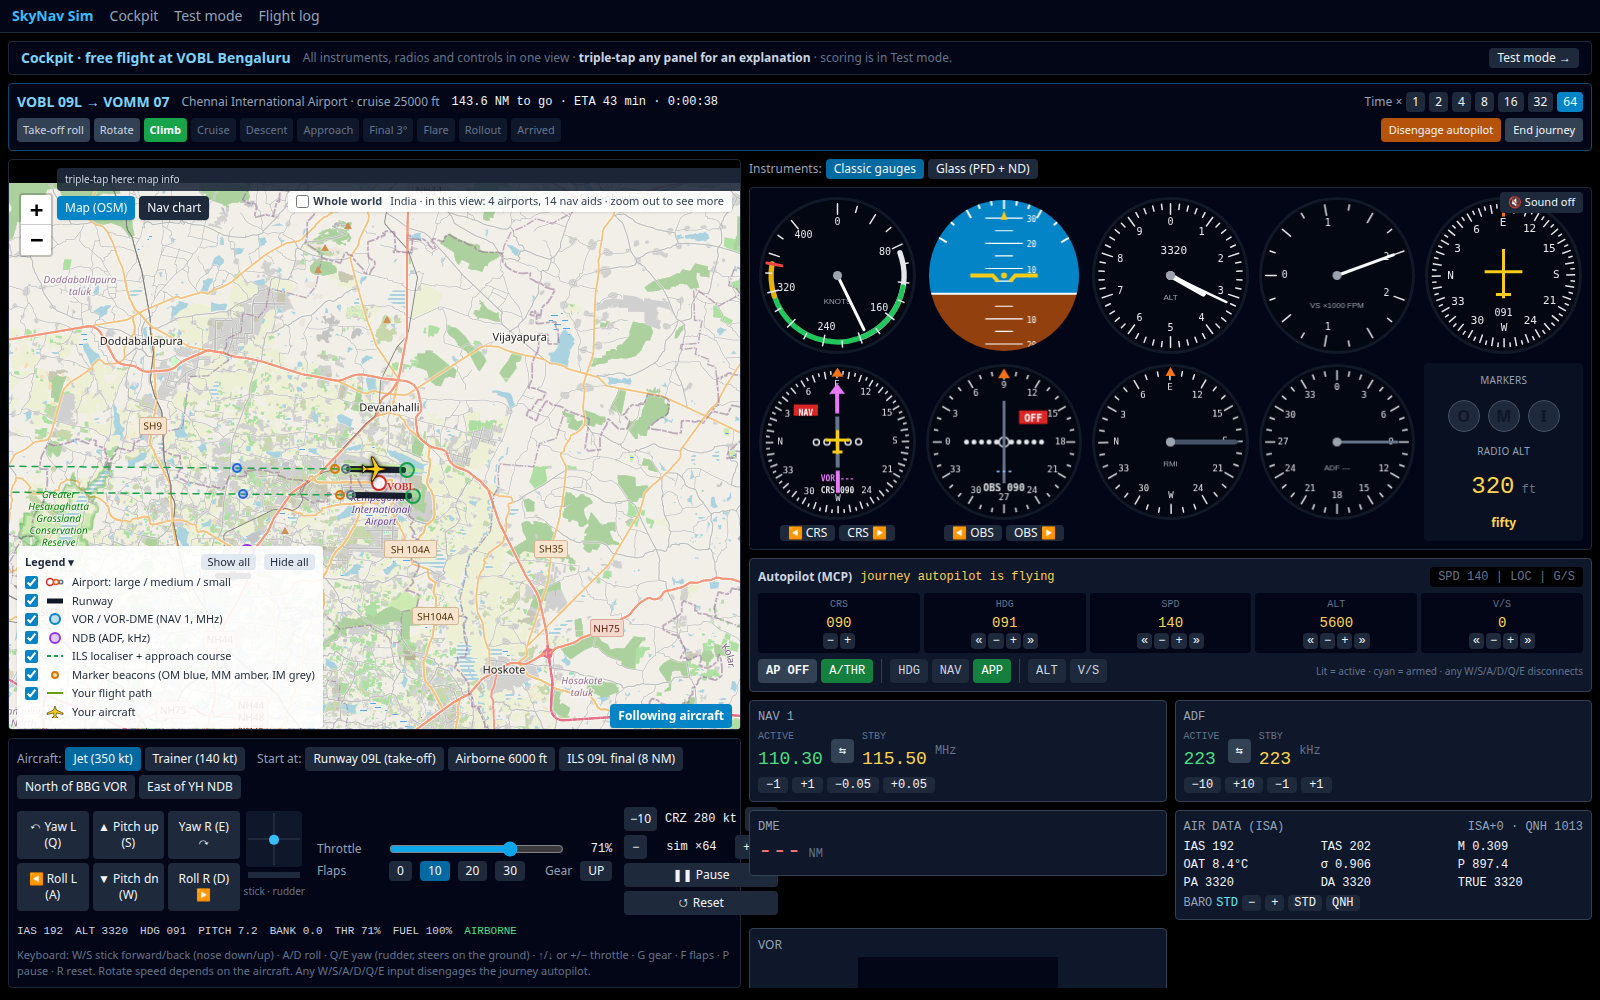
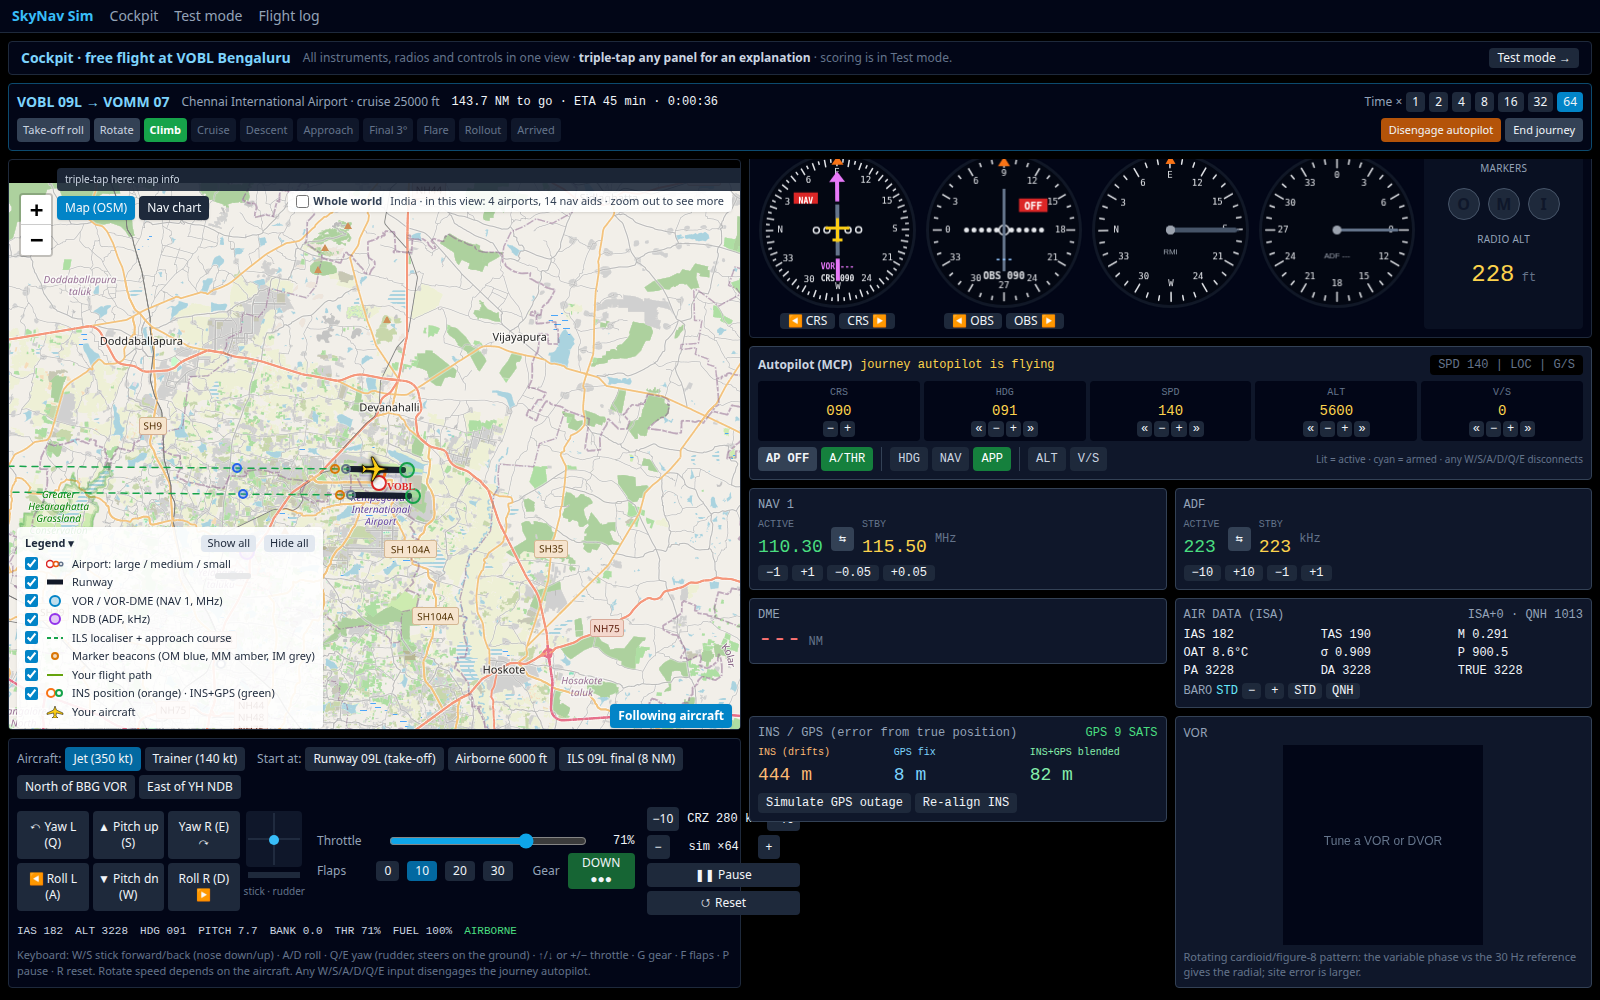
feat(cockpit): ins/gps/blend display and nav source panel

Changed region(s): [[0.1875, 0.155, 1.0, 0.992], [0.0, 0.527, 0.2188, 0.713]]

diff --git a/app/components/views/OsmMap.vue b/app/components/views/OsmMap.vue
@@ -5,7 +5,7 @@ import type * as Leaflet from 'leaflet'
 import { toLatLon } from '../../../shared/utils/geo'
 import { NM_TO_M, deg2rad } from '../../../shared/utils/units'
 import type { AirportRow, RunwayRow, StationRow } from '../../composables/useNavData'
-import type { World } from '../../sim/engine'
+import { navPositions, type World } from '../../sim/engine'
 
 const props = defineProps<{ world: World; trail: { x: number; y: number }[] }>()
 const el = ref<HTMLDivElement | null>(null)
@@ -14,8 +14,10 @@ let L: typeof Leaflet | null = null
 const map = shallowRef<Leaflet.Map | null>(null)
 let aircraft: Leaflet.Marker | null = null
 let trailLine: Leaflet.Polyline | null = null
-type LayerKey = 'airports' | 'runways' | 'ils' | 'vor' | 'ndb' | 'markers' | 'trail'
-const LAYER_KEYS: LayerKey[] = ['airports', 'runways', 'ils', 'vor', 'ndb', 'markers', 'trail']
+let insMarker: Leaflet.CircleMarker | null = null
+let blendMarker: Leaflet.CircleMarker | null = null
+type LayerKey = 'airports' | 'runways' | 'ils' | 'vor' | 'ndb' | 'markers' | 'trail' | 'insgps'
+const LAYER_KEYS: LayerKey[] = ['airports', 'runways', 'ils', 'vor', 'ndb', 'markers', 'trail', 'insgps']
 const groups: Partial<Record<LayerKey, Leaflet.LayerGroup>> = {}
 const visible = ref<Record<LayerKey, boolean>>(loadVisibility())
 
@@ -165,6 +167,9 @@ function update(force = false): void {
   const pos = ll(ac.x, ac.y)
   aircraft.setLatLng(pos)
   aircraft.setIcon(planeIcon(ac.hdgDeg))
+  const np = navPositions(props.world)
+  insMarker?.setLatLng(ll(np.ins.x, np.ins.y))
+  blendMarker?.setLatLng(ll(np.blend.x, np.blend.y))
   trailLine?.setLatLngs([...props.trail.map(p => ll(p.x, p.y)), pos])
   if (follow.value) map.value.panTo(pos, { animate: false })
 }
@@ -178,6 +183,9 @@ onMounted(async () => {
     maxZoom: 18,
     attribution: '© <a href="https://www.openstreetmap.org/copyright">OpenStreetMap</a> contributors · Nav data: <a href="https://ourairports.com/data/">OurAirports</a>',
   }).addTo(map.value)
+  groups.insgps = L.layerGroup()
+  insMarker = L.circleMarker(ll(ac.x, ac.y), { radius: 6, color: '#f97316', weight: 3, fill: false }).bindTooltip('INS position (drifting)').addTo(groups.insgps)
+  blendMarker = L.circleMarker(ll(ac.x, ac.y), { radius: 4, color: '#16a34a', weight: 3, fill: false }).bindTooltip('INS + GPS blended position').addTo(groups.insgps)
   groups.trail = L.layerGroup()
   trailLine = L.polyline([], { color: '#65a30d', weight: 2 }).addTo(groups.trail)
   aircraft = L.marker(ll(ac.x, ac.y), { icon: planeIcon(ac.hdgDeg), zIndexOffset: 1000 }).addTo(map.value)
@@ -201,6 +209,7 @@ const LEGEND: { key: LayerKey | null; sym: string; color: string; label: string 
   { key: 'ils', sym: 'dash', color: '#16a34a', label: 'ILS localiser + approach course' },
   { key: 'markers', sym: 'dot', color: COLORS.MARKER_MM!, label: 'Marker beacons (OM blue, MM amber, IM grey)' },
   { key: 'trail', sym: 'line', color: '#65a30d', label: 'Your flight path' },
+  { key: 'insgps', sym: 'ring', color: '#f97316', label: 'INS position (orange) · INS+GPS (green)' },
   { key: null, sym: 'plane', color: '#facc15', label: 'Your aircraft' },
 ]
 watch(() => props.world, () => update())
@@ -228,6 +237,7 @@ watch(follow, f => f && update(true))
             <circle v-else-if="l.sym === 'dot'" cx="9" cy="6" r="3" :stroke="l.color" stroke-width="2" :fill="l.color" fill-opacity="0.25" />
             <line v-else-if="l.sym === 'dash'" x1="1" y1="6" x2="17" y2="6" :stroke="l.color" stroke-width="2" stroke-dasharray="4 3" />
             <line v-else-if="l.sym === 'bar'" x1="1" y1="6" x2="17" y2="6" :stroke="l.color" stroke-width="5" />
+            <g v-else-if="l.sym === 'ring'"><circle cx="5" cy="6" r="4" stroke="#f97316" stroke-width="2" fill="none" /><circle cx="13" cy="6" r="3" stroke="#16a34a" stroke-width="2" fill="none" /></g>
             <line v-else-if="l.sym === 'line'" x1="1" y1="6" x2="17" y2="6" :stroke="l.color" stroke-width="2" />
             <path v-else d="M9,0 L10.4,4 L17,7 L17,8.5 L10.4,7 L10,10 L12,12 L6,12 L8,10 L7.6,7 L1,8.5 L1,7 L7.6,4 Z" :fill="l.color" stroke="#000" stroke-width="0.5" />
           </svg>

diff --git a/app/sim/engine.ts b/app/sim/engine.ts
@@ -1,4 +1,5 @@
-import { AIRPORT_ELEV_FT } from '../../shared/utils/units'
+import { AIRPORT_ELEV_FT, NM_TO_M } from '../../shared/utils/units'
+import { mulberry32 } from '../../shared/utils/random'
 import { REF, distNm, toLatLon, toLocal, type LatLon } from '../../shared/utils/geo'
 import type { AirportInfo, AircraftState, Atmosphere, Controls, FlightResult, NavOutputs, NavStation, Objective, RunwayInfo, Wind } from '../../shared/types'
 import { evaluateObjective, type ObjProgress } from './objectives'
@@ -7,6 +8,9 @@ import { JET, type AircraftProfile } from './aircraft'
 import { judgeTouchdown, type Touchdown } from './landing'
 import { apStep, type ApState } from '../systems/autopilot'
 import { tunedLocaliser, ilsReceive } from '../nav/ils'
+import { insInit, insStep, type InsState } from '../nav/ins'
+import { gpsFix } from '../nav/gps'
+import { blendStep } from '../nav/blend'
 import { DEFAULT_STATE, step } from './flightModel'
 import { vorReceive } from '../nav/vor'
 import { dmeReceive } from '../nav/dme'
@@ -44,6 +48,39 @@ export interface World {
   lastTouchdown: Touchdown | null
   /** Mode autopilot (MCP). The journey autopilot, when active, takes precedence. */
   ap: ApState | null
+  /** INS error state, GPS measurement error and the blended estimate of the INS error (metres). */
+  insgps: InsGps
+}
+
+export interface InsGps { ins: InsState; est: [number, number]; gps: [number, number] | null; outage: boolean; seed: number; nextFixMs: number }
+
+/** Sensor quality chosen so the drift is visible within minutes (≈ 1 km after 10 min). */
+export function newInsGps(seed = 42): InsGps {
+  return { ins: insInit({ bias: [0.004, -0.003], sigma: 0.002 }), est: [0, 0], gps: null, outage: false, seed, nextFixMs: 1000 }
+}
+
+/** True, INS, GPS and blended positions in the local frame (NM). */
+export function navPositions(w: World): { truth: { x: number; y: number }; ins: { x: number; y: number }; gps: { x: number; y: number } | null; blend: { x: number; y: number } } {
+  const g = w.insgps
+  const at = (ex: number, ey: number) => ({ x: w.ac.x + ex / NM_TO_M, y: w.ac.y + ey / NM_TO_M })
+  return {
+    truth: { x: w.ac.x, y: w.ac.y },
+    ins: at(g.ins.errX, g.ins.errY),
+    gps: g.gps ? at(g.gps[0], g.gps[1]) : null,
+    blend: at(g.ins.errX - g.est[0], g.ins.errY - g.est[1]),
+  }
+}
+
+function stepInsGps(g: InsGps, simMs: number, dt: number): InsGps {
+  const rng = mulberry32(g.seed)
+  const ins = insStep(g.ins, dt, rng)
+  let { est, gps, nextFixMs } = g
+  if (simMs >= nextFixMs) {
+    gps = gpsFix(rng, { outage: g.outage })
+    est = blendStep(est, [ins.errX, ins.errY], gps)
+    nextFixMs = simMs + 1000
+  }
+  return { ...g, ins, est, gps, nextFixMs, seed: Math.floor(rng() * 4294967296) }
 }
 
 export const DEFAULT_RADIOS: Radios = { nav1MHz: 113.5, obsDeg: 90, adfKHz: 350, baroHpa: 1013.25 }
@@ -71,6 +108,7 @@ export function createWorld(init: Partial<Omit<World, 'ac' | 'radios'>> & { ac?:
     profile: init.profile ?? JET,
     lastTouchdown: init.lastTouchdown ?? null,
     ap: init.ap ?? null,
+    insgps: init.insgps ?? newInsGps(),
   }
 }
 
@@ -106,7 +144,7 @@ export function simStep(w: World, c: Controls, dt: number): World {
     markers: markersReceive(w.stations, ac, groundElevFt),
     raFt: radioAltFt(ac, groundElevFt),
   }
-  let next: World = { ...w, ac, nav, auto, ap, groundElevFt, lastControls: controls, simMs: w.simMs + dt * 1000 }
+  let next: World = { ...w, ac, nav, auto, ap, insgps: stepInsGps(w.insgps, w.simMs + dt * 1000, dt), groundElevFt, lastControls: controls, simMs: w.simMs + dt * 1000 }
   if (!w.ac.onGround && ac.onGround) {
     const td = judgeTouchdown(ac0, ac, w.runways)
     next = { ...next, lastTouchdown: td }

diff --git a/app/stores/sim.ts b/app/stores/sim.ts
@@ -1,6 +1,6 @@
 import { defineStore } from 'pinia'
 import { shallowRef, ref } from 'vue'
-import { REBASE_NM, createWorld, groundElevation, rebaseWorld, simStep, type Radios, type World } from '../sim/engine'
+import { REBASE_NM, newInsGps, createWorld, groundElevation, rebaseWorld, simStep, type Radios, type World } from '../sim/engine'
 import { REF, toLatLon, type LatLon } from '../../shared/utils/geo'
 import { airportsToLocal, runwaysToLocal, stationsToLocal, type NavDataRaw } from '../composables/useNavData'
 import { keysToControls, manualInput } from '../sim/input'
@@ -177,6 +177,15 @@ export const useSimStore = defineStore('sim', () => {
     if (p.engaged) autoMessage.value = ''
   }
 
+  function setGpsOutage(on: boolean): void {
+    world.value = { ...world.value, insgps: { ...world.value.insgps, outage: on, gps: on ? null : world.value.insgps.gps } }
+  }
+
+  /** Re-aligns the INS: errors back to zero (as after a ground alignment). */
+  function realignIns(): void {
+    world.value = { ...world.value, insgps: newInsGps(world.value.insgps.seed) }
+  }
+
   function engageAuto(): void {
     if (!world.value.journey) return
     const ac = world.value.ac
@@ -195,5 +204,5 @@ export const useSimStore = defineStore('sim', () => {
     autoMessage.value = ''
   }
 
-  return { world, paused, timeScale, autoMessage, keys, trail, navCenter, setNavData, setProfile, stepTimeScale, changeSpeed, setAp, startJourney, engageAuto, disengageAuto, endJourney, load, reset, tick, toggleGear, cycleFlaps, setRadio, setThrottle, setFlaps, holdKey, applyPreset }
+  return { world, paused, timeScale, autoMessage, keys, trail, navCenter, setNavData, setProfile, stepTimeScale, changeSpeed, setAp, setGpsOutage, realignIns, startJourney, engageAuto, disengageAuto, endJourney, load, reset, tick, toggleGear, cycleFlaps, setRadio, setThrottle, setFlaps, holdKey, applyPreset }
 })

diff --git a/app/components/views/InsGpsPanel.vue b/app/components/views/InsGpsPanel.vue
@@ -1,0 +1,29 @@
+<script setup lang="ts">
+import { computed } from 'vue'
+import { useSimStore } from '../../stores/sim'
+
+const store = useSimStore()
+const g = computed(() => store.world.insgps)
+const insErr = computed(() => Math.hypot(g.value.ins.errX, g.value.ins.errY))
+const gpsErr = computed(() => (g.value.gps ? Math.hypot(g.value.gps[0], g.value.gps[1]) : null))
+const blendErr = computed(() => Math.hypot(g.value.ins.errX - g.value.est[0], g.value.ins.errY - g.value.est[1]))
+const fmt = (m: number) => (m >= 1000 ? `${(m / 1000).toFixed(2)} km` : `${m.toFixed(0)} m`)
+</script>
+
+<template>
+  <div class="rounded border border-slate-700 bg-slate-900 p-2 font-mono text-xs">
+    <div class="mb-1 flex items-center justify-between text-slate-400">
+      <span>INS / GPS (error from true position)</span>
+      <span :class="g.outage ? 'text-red-400' : 'text-green-400'">{{ g.outage ? 'GPS 0 SATS' : 'GPS 9 SATS' }}</span>
+    </div>
+    <div class="grid grid-cols-3 gap-2">
+      <div><div class="text-[10px] text-orange-300">INS (drifts)</div><div class="text-lg text-orange-300">{{ fmt(insErr) }}</div></div>
+      <div><div class="text-[10px] text-sky-300">GPS fix</div><div class="text-lg text-sky-300">{{ gpsErr === null ? '---' : fmt(gpsErr) }}</div></div>
+      <div><div class="text-[10px] text-green-300">INS+GPS blended</div><div class="text-lg text-green-300">{{ fmt(blendErr) }}</div></div>
+    </div>
+    <div class="mt-1 flex gap-1">
+      <button class="rounded px-2 py-0.5" :class="g.outage ? 'bg-red-800' : 'bg-slate-800'" @click="store.setGpsOutage(!g.outage)">{{ g.outage ? 'Restore GPS' : 'Simulate GPS outage' }}</button>
+      <button class="rounded bg-slate-800 px-2 py-0.5" @click="store.realignIns()">Re-align INS</button>
+    </div>
+  </div>
+</template>

diff --git a/app/components/views/explanations.ts b/app/components/views/explanations.ts
@@ -2,6 +2,13 @@
 export interface Explanation { title: string; what: string; read: string[]; how: string; controls?: string }
 
 export const EXPLANATIONS: Record<string, Explanation> = {
+  insgps: {
+    title: 'INS and GPS',
+    what: 'Two ways the aircraft knows where it is without ground stations: the inertial navigation system (INS) and satellite navigation (GPS), and their combination.',
+    read: ['INS (orange, also an orange ring on the map): error from the true position. It grows over time.', 'GPS fix (blue): error of the latest fix (about 5 m), once per second. "0 SATS" = no GPS.', 'INS+GPS blended (green ring on the map): what modern aircraft actually use; stays close to the truth while GPS works.'],
+    how: 'An INS measures acceleration (accelerometers) and rotation (gyros) and integrates twice to get position. A tiny sensor bias integrated twice grows with time², so the INS slowly drifts. GPS is accurate but can be lost (jamming, outages). The blend (a simplified Kalman-style filter) uses GPS to estimate and remove the INS error; during a GPS outage it keeps the last estimate and the blended position starts drifting with the INS.',
+    controls: 'Simulate GPS outage / Restore GPS · Re-align INS (sets the INS error back to zero, as after an alignment on the ground). Use sim speed × to see the drift faster.',
+  },
   pfd: {
     title: 'PFD (primary flight display)',
     what: 'The glass-cockpit replacement for the six classic gauges: attitude, speed, altitude, vertical speed and heading on one screen.',

diff --git a/app/components/views/CockpitPanel.vue b/app/components/views/CockpitPanel.vue
@@ -21,6 +21,7 @@ import InfoTap from './InfoTap.vue'
 import HSI from '../instruments/HSI.vue'
 import MarkerRaPanel from '../instruments/MarkerRaPanel.vue'
 import MCP from '../instruments/MCP.vue'
+import InsGpsPanel from './InsGpsPanel.vue'
 import PFD from '../instruments/PFD.vue'
 import ND from '../instruments/ND.vue'
 import { hsiInput } from '../instruments/hsiMath'
@@ -93,6 +94,7 @@ const audio = useAudio(toRef(() => store.world.nav.markers), toRef(() => store.w
           <InfoTap id="adfRadio"><NavRadio label="ADF" :active="store.world.radios.adfKHz" :min="190" :max="1750" :fine="1" :coarse="10" :decimals="0" unit="kHz" @tune="store.setRadio({ adfKHz: $event })" /></InfoTap>
           <InfoTap id="dme"><DmeReadout :dme="store.world.nav.dme1" :gs-kt="store.world.ac.gsKt" /></InfoTap>
           <InfoTap id="airData"><AirDataPanel :ac="store.world.ac" :atmo="store.world.atmo" :baro-hpa="store.world.radios.baroHpa" @baro="store.setRadio({ baroHpa: $event })" /></InfoTap>
+          <InfoTap id="insgps"><InsGpsPanel /></InfoTap>
           <InfoTap id="vor"><VorDiagram :world="store.world" /></InfoTap>
         </div>
       </ClientOnly>

diff --git a/tests/unit/engine.test.ts b/tests/unit/engine.test.ts
@@ -113,3 +113,16 @@ describe('engine touchdown', async () => {
     expect(e.lastTouchdown?.result).toBe('CRASHED')
   })
 })
+
+describe('engine INS/GPS', async () => {
+  const { navPositions } = await import('../../app/sim/engine')
+  const { air } = await import('./helpers/fixtures')
+  it('E10 after 5 min the INS has drifted but the blended position stays close', () => {
+    const e = run(createWorld({ ac: air({ hdgDeg: 90 }) }), { roll: 0, pitch: 0, throttle: 120 / 350 }, 300, 0.1)
+    const p = navPositions(e)
+    const insM = Math.hypot(p.ins.x - p.truth.x, p.ins.y - p.truth.y) * 1852
+    const blendM = Math.hypot(p.blend.x - p.truth.x, p.blend.y - p.truth.y) * 1852
+    expect(insM).toBeGreaterThan(100)
+    expect(blendM).toBeLessThan(30)
+  })
+})

diff --git a/docs/agent/PROGRESS.md b/docs/agent/PROGRESS.md
@@ -42,7 +42,7 @@ Pick the first `TODO` whose dependencies are all `DONE`. A task without listed d
 | P3 | P3-CHK | Checkpoint: coupled ILS on the glass cockpit | P2, P3 | DONE |
 | P4 | W5-T28 | INS model (drift) | P3-CHK | DONE |
 | P4 | W5-T29 | GPS + INS/GPS blend | T28 | DONE |
-| P4 | W5-T31 | INS/GPS/blended positions on the map, nav source selector | T29 | TODO |
+| P4 | W5-T31 | INS/GPS/blended positions on the map, nav source selector | T29 | DONE |
 | P5 | W6-T35 | Dockerfile + compose app service (one-command run) | – | TODO |
 | P5 | FINAL | Final regression, demo script, tag v1.0 | P1–P5 | TODO |
 | Optional | W3-T19 | Approach profile (side) view | T17 | TODO |
@@ -56,6 +56,11 @@ Pick the first `TODO` whose dependencies are all `DONE`. A task without listed d
 
 ## Handoff log
 Newest at the top. At most 5 lines per task.
+
+### W5-T31 · DONE · 2026-11-21
+- engine: World.insgps stepped every tick (INS), GPS fix + blend every 1 s sim time, seeded RNG kept in state (serialisable); navPositions(w).
+- InsGpsPanel.vue (errors, sats, GPS outage, re-align INS), orange/green rings on the OSM map (legend toggle), triple-tap card.
+- Sensor quality: bias (0.004, −0.003) m/s², σ 0.002, about 1 km after 10 min. E10 + browser check.
 
 ### W5-T29 · DONE · 2026-11-21
 - app/nav/gps.ts (5 m noise, outage → null), app/nav/blend.ts (estimate of INS error, k = 0.3; frozen in outages). GS1/GS2, BL1, outage-drift tests.
